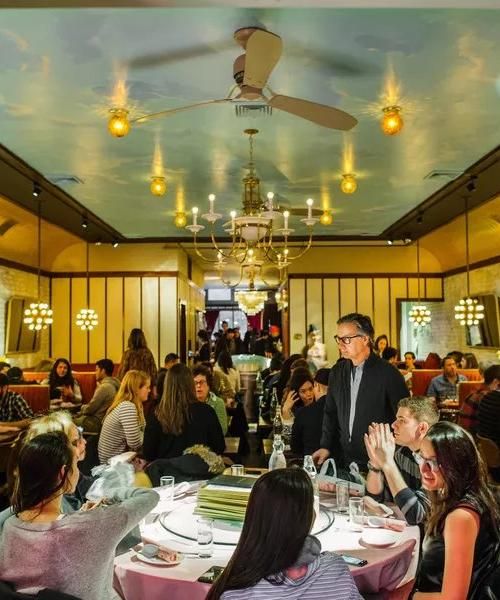
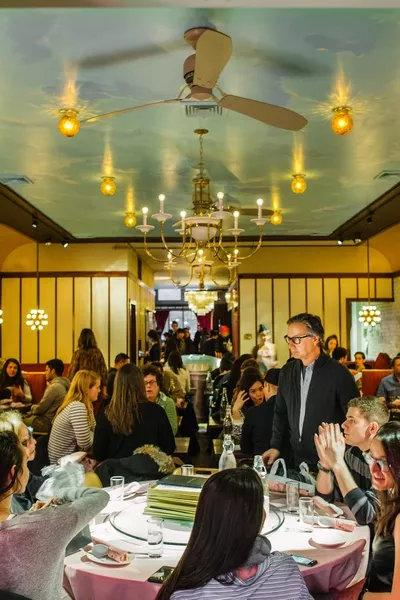
Request appropriate image based on viewport width

diff --git a/js/main.js b/js/main.js
@@ -138,12 +138,19 @@ fillRestaurantsHTML = (restaurants = self.restaurants) => {
 createRestaurantHTML = (restaurant) => {
   const li = document.createElement('li');
 
-  const image = document.createElement('img');
-  image.className = 'restaurant-img';
-  image.src = DBHelper.imageUrlForRestaurant(restaurant);
-  console.log('DATA DATA DATA: ', restaurant);
-  image.setAttribute('alt', restaurant.textAlternative);
-  li.append(image);
+  let responsiveImageHTML = `
+  <picture>
+    <source
+      media="(min-width: 600px)"
+      srcset="${DBHelper.imageUrlForRestaurantLarge(restaurant)}">
+    <img
+      src="${DBHelper.imageUrlForRestaurantSmall(restaurant)}"
+      alt="${restaurant.textAlternative}"
+      class="restaurant-img">
+  </picture>
+  `;
+
+  li.innerHTML = responsiveImageHTML;
 
   const name = document.createElement('h1');
   name.innerHTML = restaurant.name;

diff --git a/js/dbhelper.js b/js/dbhelper.js
@@ -147,12 +147,25 @@ class DBHelper {
   }
 
   /**
-   * Restaurant image URL.
+   * Restaurant small image URL.
    */
-  static imageUrlForRestaurant(restaurant) {
-    return (`/img/${restaurant.photograph}`);
+  static imageUrlForRestaurantSmall(restaurant) {
+    return (`/img/compressed/${restaurant.photograph}`);
   }
 
+  /**
+   * Restaurant large image URL.
+   */
+  static imageUrlForRestaurantLarge(restaurant) {
+    return `/img/compressed_large/${restaurant.photograph}`;
+  }
+
+  /**
+   * Restaurant image alternative text
+   */
+  static imageAlternativeTextForRestaurant(restaurant) {
+    return `${restaurant.textAlternative}`;
+  }
   /**
    * Map marker for a restaurant.
    */

diff --git a/js/restaurant_info.js b/js/restaurant_info.js
@@ -58,6 +58,7 @@ fillRestaurantHTML = (restaurant = self.restaurant) => {
   const image = document.getElementById('restaurant-img');
   image.className = 'restaurant-img'
   image.src = DBHelper.imageUrlForRestaurant(restaurant);
+  image.setAttribute('alt', DBHelper.imageAlternativeTextForRestaurant(restaurant));
 
   const cuisine = document.getElementById('restaurant-cuisine');
   cuisine.innerHTML = restaurant.cuisine_type;

diff --git a/gulpfile.js b/gulpfile.js
@@ -6,7 +6,7 @@ const imageResize = require('gulp-image-resize');
 gulp.task('resize', function() {
   gulp.src('img/src/*')
     .pipe(imageResize({
-      width: 500,
+      width: 400,
       height: 600,
       crop: true,
       upscale: false

diff --git a/restaurant.html b/restaurant.html
@@ -22,7 +22,7 @@
     </nav>
     <!-- Beginning breadcrumb -->
     <ul id="breadcrumb" >
-      <li><a href="/">Home</a></li>
+      <li ><a href="/">Home</a></li>
     </ul>
     <!-- End breadcrumb -->
     <!-- End nav -->

diff --git a/css/styles.css b/css/styles.css
@@ -164,6 +164,7 @@ nav h1 a {
 #restaurants-list .restaurant-img {
   background-color: #ccc;
   display: block;
+  width: 100%;
   margin: 0;
   max-width: 100%;
   min-height: 248px;
